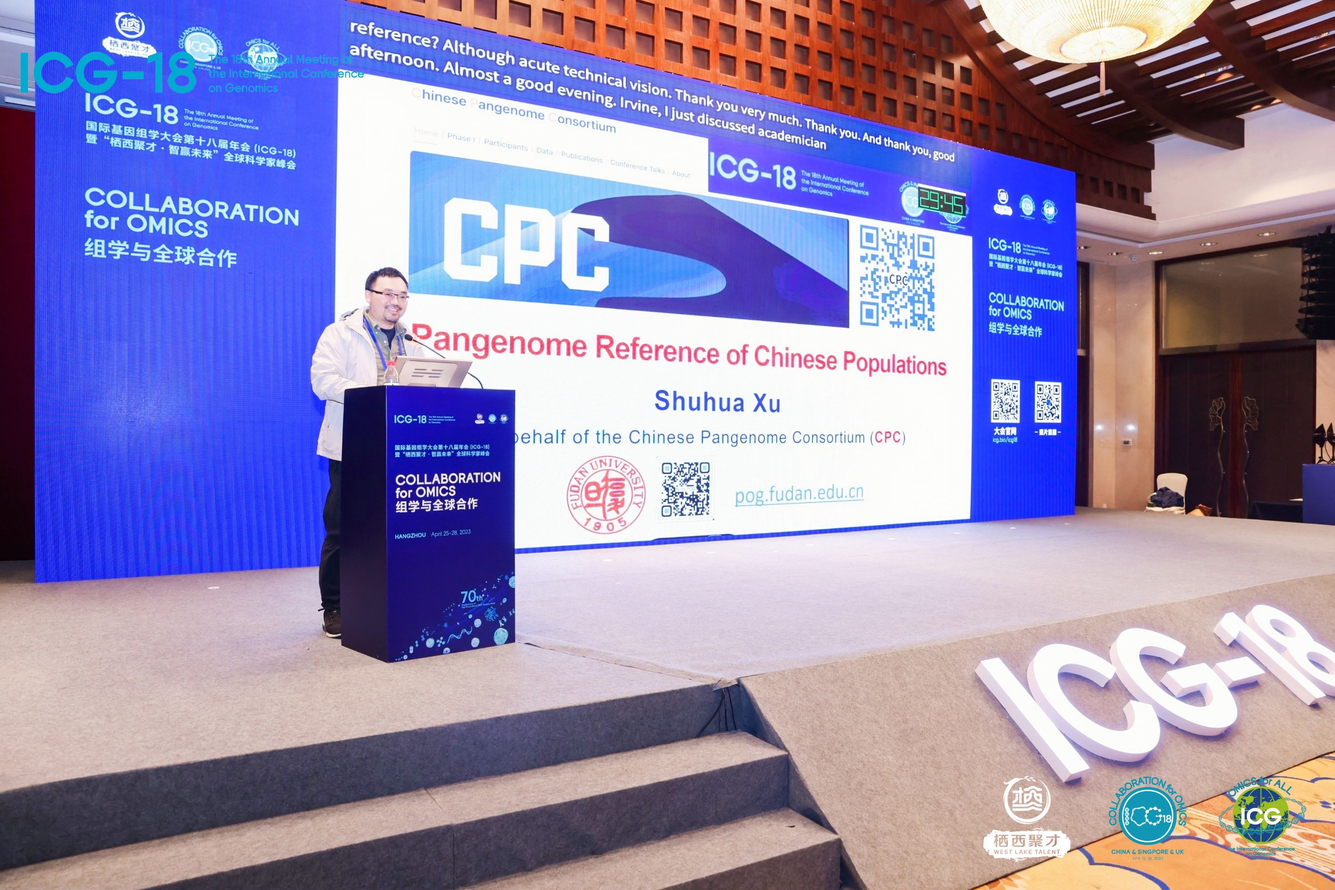
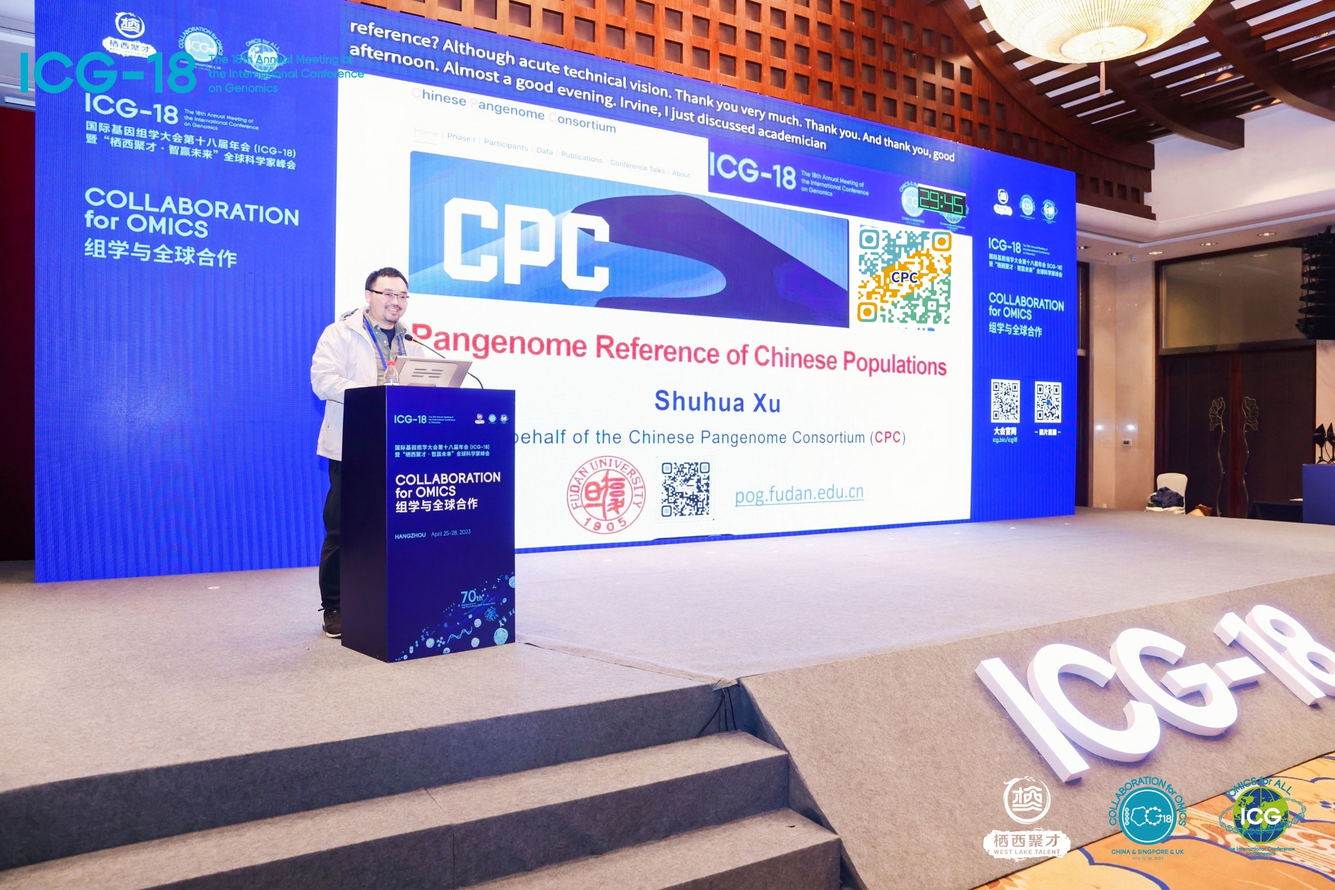
会议信息页面更新，二维码更新

Changed region(s): [[0.6212, 0.247, 0.7144, 0.3704]]

diff --git a/src/views/conferenceTalks/index.vue b/src/views/conferenceTalks/index.vue
@@ -2,6 +2,24 @@
   <div>
     <div style="max-width: 1200px; padding: 0 10px 20px">
 
+
+
+<!--会议四-->
+      <div style="font-size: 20px;font-weight: 600;padding: 10px 0 0">
+        <div style="background-color: #2b4275;border-radius: 5px;padding: 0 0 0;width: fit-content">
+          <p style="color: #ffffff;padding: 5px 10px 5px;">
+            the Road Show of PacBio
+          </p>
+        </div>
+      </div>
+      <p>
+        Dr. Shuhua Xu gave a talk on CPC Phase I data analysis in the Road Show of PacBio on May 26, 2023.
+      </p>
+      <div style="display:flex;justify-content:space-between;margin-bottom: 40px;">
+        <img data-aos="fade-right" src="@/assets/img/conference/Conference4.jpeg"
+             style="width:80%;border-radius: 10px;">
+      </div>
+
       <!--会议3-->
       <!--      <div class="card-content">-->
       <!--        <h2>the 18th Annual Meeting of the International Conference on Genomics</h2>-->
@@ -18,12 +36,13 @@
         </div>
       </div>
       <p>
-        Dr. Shuhua Xu gave a talk on CPC Phase I data analysis in the ICG-18 on April 27th, 2023.
+        Dr. Shuhua Xu gave a talk on CPC Phase I data analysis in the ICG-18 on April 27, 2023.
       </p>
       <div style="display:flex;justify-content:space-between;margin-bottom: 40px;">
         <img data-aos="fade-right" src="@/assets/img/conference/Conference3.jpeg"
              style="width:80%;border-radius: 10px;">
       </div>
+
 
       <!--会议2-->
       <!--      <div class="card-content">-->

diff --git a/src/components/GroupFooter.vue b/src/components/GroupFooter.vue
@@ -3,7 +3,7 @@
     <div class="row" style="max-width: 1200px;margin: auto;">
       <div class="col-sm">
         <h3>QR Code</h3>
-        <img style="width:140px" src="@/assets/img/cpcqrcode.png">
+        <img style="width:140px" src="@/assets/img/qrcode1.png">
         <a style="display:block" href="https://www.revolvermaps.com/livestats/5890s438kz2/">
           <img src="//rf.revolvermaps.com/w/3/s/a/5/0/2/ffffff/010020/aa0000/5890s438kz2.png" alt="Stats" style="border:0;">
         </a>
